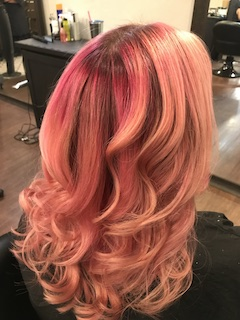
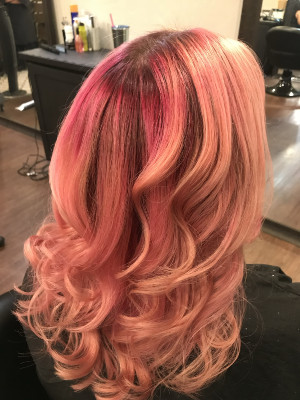
updated html and css, image resizing

diff --git a/index.html b/index.html
@@ -11,33 +11,47 @@
     <title>BioSite</title>
 </head>
 <body>
-    <div id="top" class="header">
-        <img src="KathyBike.jpg" alt="Kathy on a bike">
-        <h1>Kathy's Cool Website</h1>
-    </div><!--end of header-->
-    <div class="nav">
+    <header class="header-gallery">
+
+        <div id="gallery-item1">
+            <img src="kathy-bike.jpg" alt="Kathy enjoying Midwestern bike ride">
+        </div>
+
+        <div id="gallery-title">
+            <h1>Kathy's Cool Website</h1>
+        </div>
+
+        <div id="gallery-item2">
+            <img src="kathyzestos.jpg" alt="Kathy's first Zestos Experience">
+        </div>
+
+    </header><!--end of header-->
+    
+    <div id="navbar">
         <a href="#inspiration">Inspiration</a>
         <a href="#present_day">Present Day</a>
     </div><!--end of navigation bar-->
+
+
     <div class="row">
         <div class="leftcolumn">
             <h2>The Beginnings</h2>
             <div class="info">
                 <div class="sidebyside">
                     <figure>
-                    <img src="Texas flag.jpg" class="medium" alt="Texas flag">
+                    <img src="texasflag.jpg" class="medium" alt="Texas flag">
                     <figcaption>Texas Flag</figcaption>
                     </figure>
                 </div>
                 <div class="sidebyside">
                     <figure>
-                    <img src="Land.jpg" class="medium" alt="Land">
+                    <img src="land.jpg" class="medium" alt="Land">
                     <figcaption>Small Town</figcaption>
                     </figure>
                 </div>
                 <div class="sidebyside">
                     <figure>
-                    <img src="nature.png" class="medium" alt="Creek">
+                    <img src="texascreek.jpg" class="medium" alt="Creek">
                     <figcaption>Local Creek</figcaption>
                     </figure>
                 </div>
@@ -49,25 +63,25 @@
             </div>
             <h2 id="present_day">Present Day</h2>
             <div class="info">
+                <p>Having left Texas to the Midwest, Kathy now looks forward to the next chapter in her life.  Her family and friends would say she is the sweetest, caring, most thoughtful, and hardworking person.  To me, she is the most exquisite, joyful, and fun person I could ask to spend my life with. </p>
                 <div class="sidebyside">
                     <figure>
-                    <img src="1920s.jpg" class="medium" alt="1920s Party">
+                    <img src="NYE2019.jpg" alt="1920s Party">
+                    <figcaption>NYE Party 2019</figcaption>
+                    </figure>
+                </div>
+                <div class="sidebyside">
+                    <figure>
+                    <img src="Party.jpg" class="medium" alt="First time snow tubing">
                     <figcaption>1920s Holiday Party</figcaption>
                     </figure>
                 </div>
                 <div class="sidebyside">
                     <figure>
-                    <img src="ski.jpg" class="medium" alt="First time snow tubing">
+                    <img src="snowtube.jpg" alt="Treasure Map">
                     <figcaption>Snow Tubing</figcaption>
                     </figure>
                 </div>
-                <div class="sidebyside">
-                    <figure>
-                    <img src="Treasure.jpg" class="medium" alt="Treasure Map">
-                    <figcaption>Scavenger Hunt</figcaption>
-                    </figure>
-                </div>
-                <p>Having left Texas to the Midwest, Kathy now looks forward to the next chapter in her life.  Her family and friends would say she is the sweetest, caring, most thoughtful, and hardworking person.  To me, she is the most exquisite, joyful, and fun person I could ask to spend my life with. </p>
             </div>
         </div>
         <div class="rightcolumn">
@@ -76,15 +90,16 @@
                 <img src="Beach.jpg" class="medium" alt="Beach">
                 <p>Kathy loves life and often enjoys reading, painting, cooking, and baking.  One of her favorite pastimes is writing.  Kathy is a stand-up comic and often uses personal experiences to bring joy and laughter to others.  When it's time to unwind, Kathy describes her perfect afternoon as relaxing on a beach with a drink, not a worry.</p>
             </div>
+            <h2 id="Hair by Kathy">Hair by Kathy</h2>
             <div class="info">
                 <figure>
-                <img src="hair1.JPG" class="small" alt="Hair1">
+                <img src="hair1.jpg" class="small" alt="Hair1">
                 </figure>
                 <figure>
-                <img src="hair2.JPG" class="small" alt="Hair2">
+                <img src="hair2.jpg" class="small" alt="Hair2">
                 </figure>
                 <figure>
-                <img src="hair3.JPG" class="small" alt="Hair3">
+                <img src="hair3.jpg" class="small" alt="Hair3">
                 </figure>
             </div>
         </div>

diff --git a/biosite-style.css b/biosite-style.css
@@ -1,21 +1,23 @@
 /* Set font size to 16px on default browser settings */
 html {font-size: 16px;} 
+
 /* major thirds type scale*/
 h1 {font-size: 3.052em;}
 h2 {font-size: 2.441em;}
 h3 {font-size: 1.953em;}
 h4 {font-size: 1.563em;}
 h5 {font-size: 1.25em;}
+
 /* Padding and border are included in width and height calculations */
-* {
-    box-sizing: border-box;
-  }
+* {box-sizing: border-box;}
+
 /* Color, font style, and spacing between element content and border*/
 body {
     background-color: #A4ffde;
     font-family: Verdana, Geneva, Tahoma, sans-serif;
     padding: 10px;
 }
+
 /*Color, font styling, sizing, and height for headings and paragraphs*/
 h1 {
     color: black;
@@ -26,6 +28,7 @@ h2 {
     color: goldenrod;
     font-style: normal;
     font-family: 'Playfair Display', serif;
+    text-align: center;
 }
 h5 {
     color: black;
@@ -37,75 +40,94 @@ p {
     font-weight: normal;
     line-height: 1.4em;
 }
-/*Header with image, fonts and colors*/
-.header {
-    padding: 20px;
-    text-align: center;
+
+/*New Header with image, fonts and colors*/
+header {
     background-color: #dea4ff;
     box-shadow: 0px 0px 10px #ca89f0;
+    padding: 20px;
+    text-align: center;
 }
-.header h1 {
+
+header h1 {
     font-family: 'Grandstander', cursive;
-    font-size: 4em;
+    font-size: 5.95em;
     font-weight: 700;
     text-shadow: 5px 5px 7px lightgray;
 }
-.header img {
-    float: left;
-    width: 120px;
-    box-shadow: 5px 5px 5px #777777;
+
+.header-gallery {
+    display: inline-block;
 }
-/*Navigation bar color*/
-.nav {
+
+#gallery-item1 {
+    float: left;
+}
+
+#gallery-title {
+    float: left
+}
+
+#gallery-item2 {
+    float: right;
+}
+
+/*New Navigation bar color link color, alignment, location*/
+#navbar {
     overflow: hidden;
-    background-color: lightgrey;
+    background-color: lightgray;
     box-shadow: 0px 0px 10px #ca89f0;
 }
-/* Navigation link color, alignment, location*/
-.nav a {
+
+#navbar a {
     float: left;
     display: block;
-    color: blue;
+    font-family: 'Grandstander', cursive;
+    color: black;
     text-align: center;
     padding: 14px 16px;
     text-decoration: none;
 }
-/* Navigation link color on hover*/
-.nav a:hover{
-    background-color: #ddd;
+
+#navbar a:hover {
+    background-color: #A4ffde;
 }
+
 /* Left column */
 .leftcolumn {   
     float: left;
     width: 75%;
+    display: grid;
   }
 /* Right column */
 .rightcolumn {
-    float: left;
+    float: right;
     width: 25%;
     padding-left: 20px;
+    display: grid;
 }
 img.medium {
-    width: 200px;
-    height: 150px;
-    box-shadow: 5px 5px 5px 5px #937e4a;
+    width: 350px;
+    height: 275px;
+    border: 1px solid #937e4a;
+    border-radius: 15px;
 }
 img.small {
-    width: 155px;
-    height: 150px;
-    box-shadow: 5px 5px 5px 5px #937e4a;
+    width: 250px;
+    height: 300px;
+    border: 1px solid #937e4a;
+    border-radius: 15px;
+    padding: 5px;
 }
 /* Image side by side */
 .sidebyside {
     float: left;
     width: 33.33%;
-    padding: 5px;
 }
 /* Color, spacing btw element content and boarders for info details */
 .info {
     background-color: #ffdea4;
     padding: 20px;
-    margin-top: 20px;
     box-shadow: 5px 5px 5px 2px #937e4a;
   }
 /* Clear floats after the columns */
@@ -117,6 +139,7 @@ img.small {
 /* Bottom Navigation link color*/
 .bottomnav a {
     color: blue;
+    float: right;
 }
   /* Footer */
 .footer {
@@ -140,4 +163,10 @@ figcaption {
     font-style: italic;
     font-size: .50em;
     font-weight: 400;
+}
+.sidebyside img {
+    border: 1px solid #937e4a;
+    border-radius: 15px;
+    padding: 5px;
+
 }
